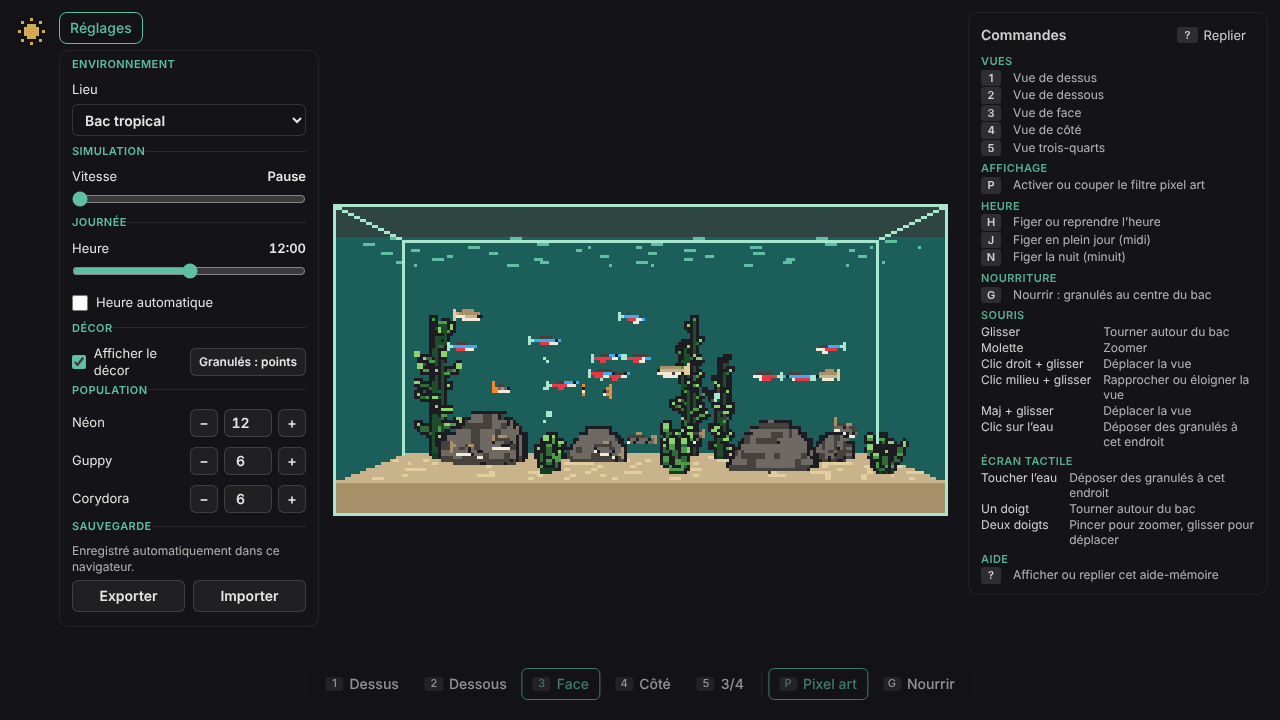
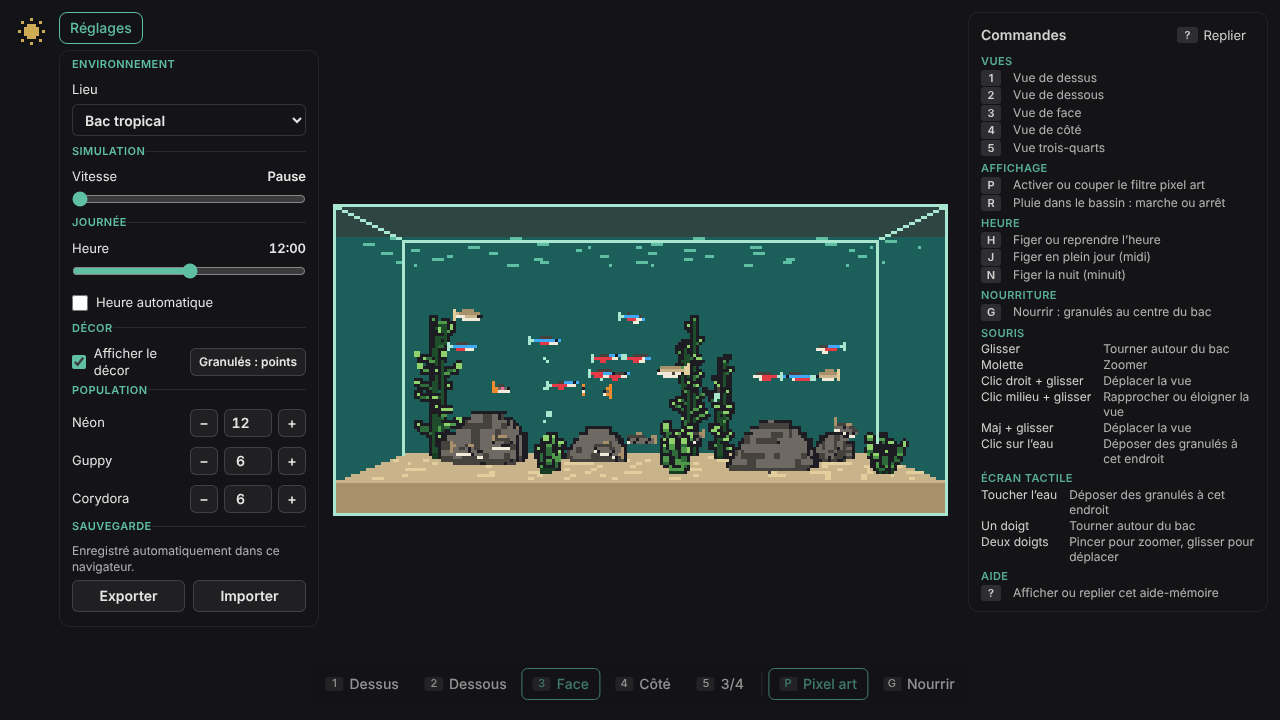
captures(c039): 5 angles

Changed region(s): [[0.75, 0.275, 0.9688, 0.8556]]

diff --git a/captures/latest/SOURCE.md b/captures/latest/SOURCE.md
@@ -1,3 +1,4 @@
-# Captures QA, cycle 38 (#105)
-Branche cycle/c038-bassin-enterre, PR #121, commit 94734b2, graine 42, t = 30 s, 1280 × 720.
-Les captures du bac tropical sont identiques à l'octet à la série précédente (hors front-panneau, temps réel).
+# Captures c039
+- Branche : cycle/c039-pluie (PR #124), commit af13df3
+- Graine : par défaut des captures (seed=42), time=30
+- 36 captures ; 33 identiques à la série précédente, 2 nouvelles (bassin-*-pluie), front-panneau change (ligne R)

diff --git a/captures/c039/SOURCE.md b/captures/c039/SOURCE.md
@@ -1,0 +1,4 @@
+# Captures c039
+- Branche : cycle/c039-pluie (PR #124), commit af13df3
+- Graine : par défaut des captures (seed=42), time=30
+- 36 captures ; 33 identiques à la série précédente, 2 nouvelles (bassin-*-pluie), front-panneau change (ligne R)
